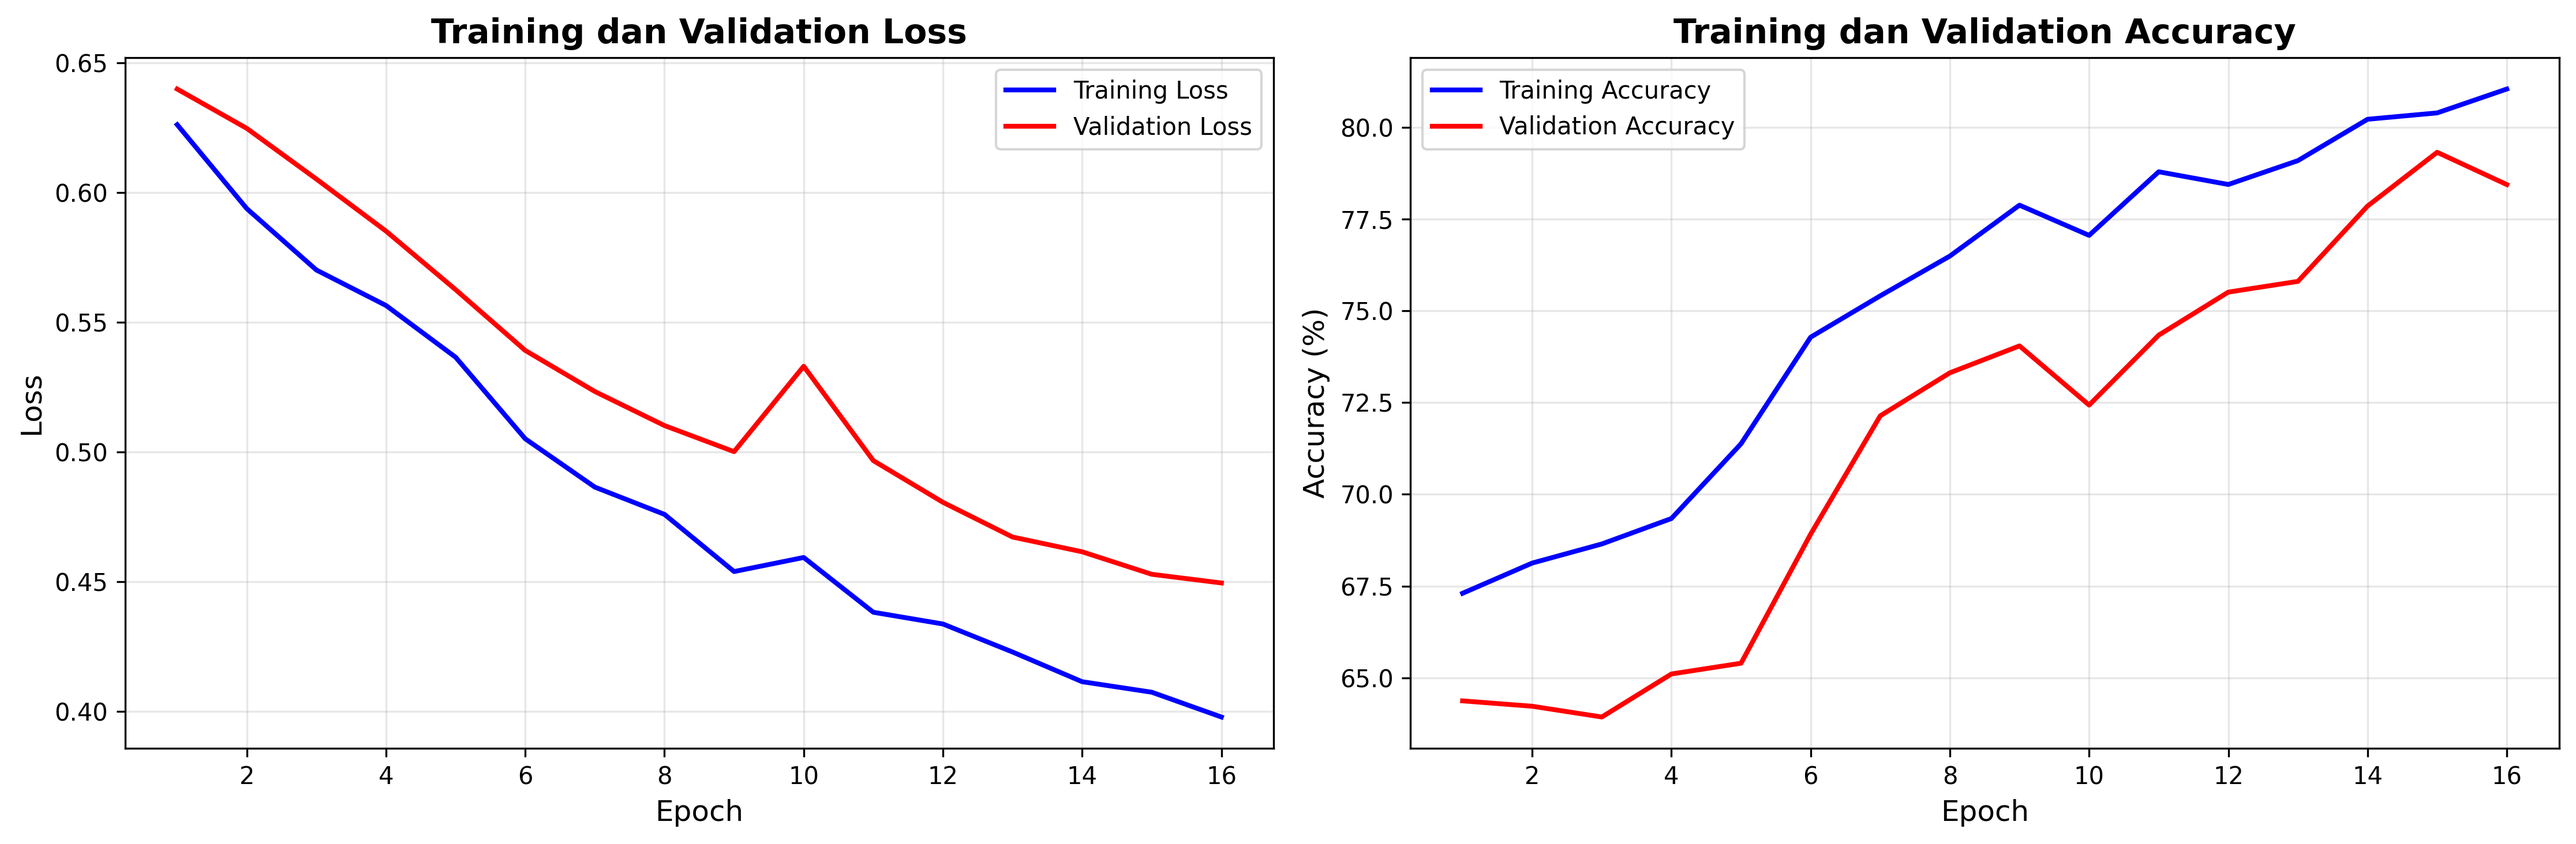
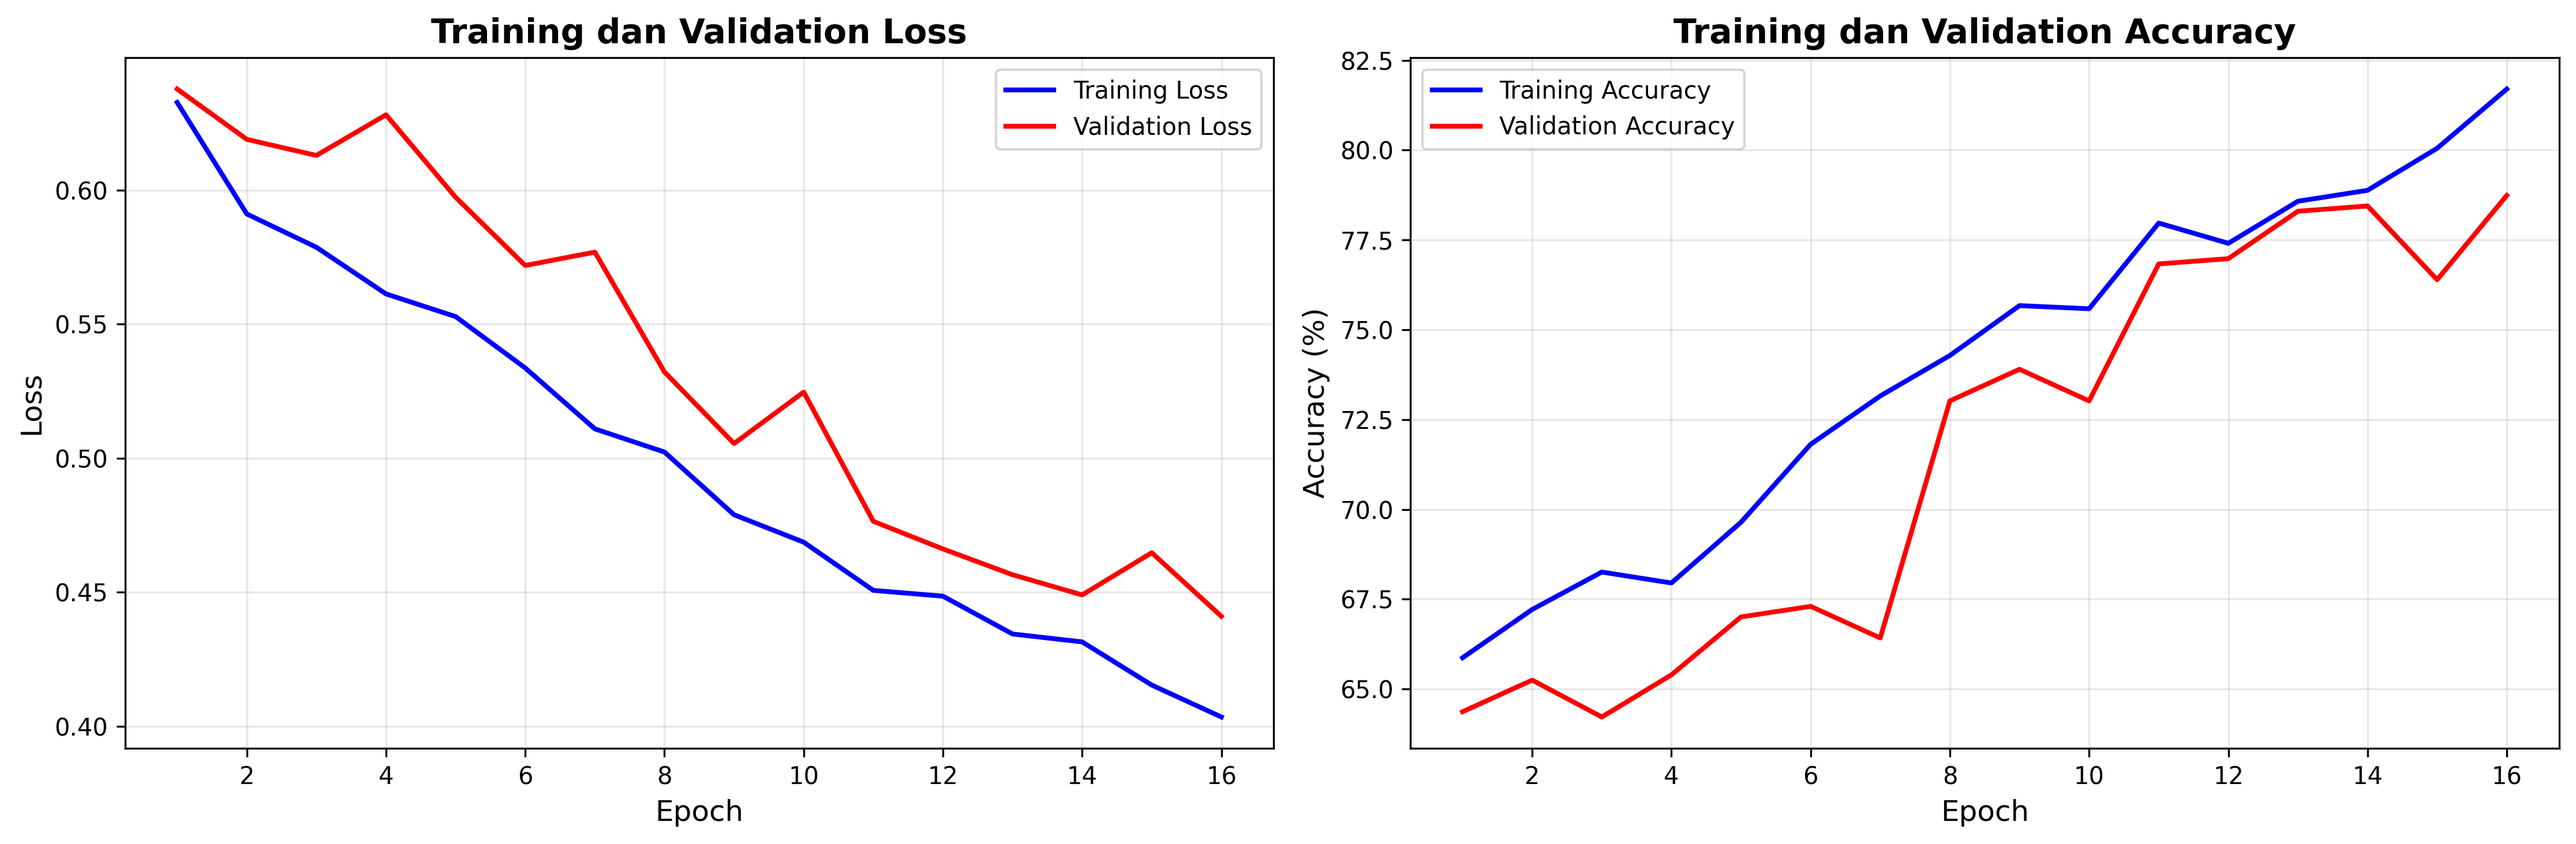
Replace DenseNet121 with ResNet18 in training script and update training history and validation predictions images

diff --git a/train.py b/train.py
@@ -4,7 +4,7 @@ import torch
 import torch.nn as nn
 import torch.optim as optim
 from datareader import get_data_loaders, NEW_CLASS_NAMES
-from densenet import DenseNet121
+from resnet import ResNet18
 import matplotlib.pyplot as plt
 from utils import plot_training_history, visualize_random_val_predictions
 
@@ -108,4 +108,3 @@ def train():
 
 if __name__ == '__main__':
     train()
-    
